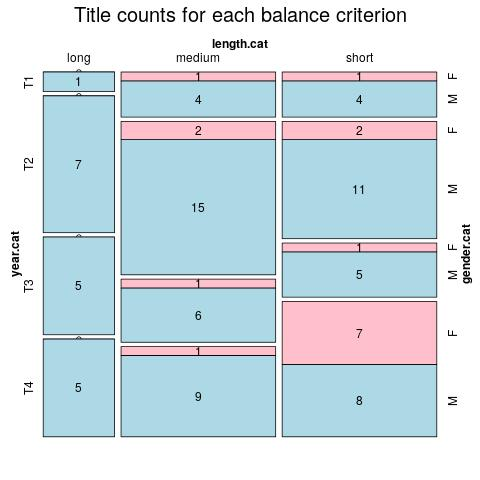
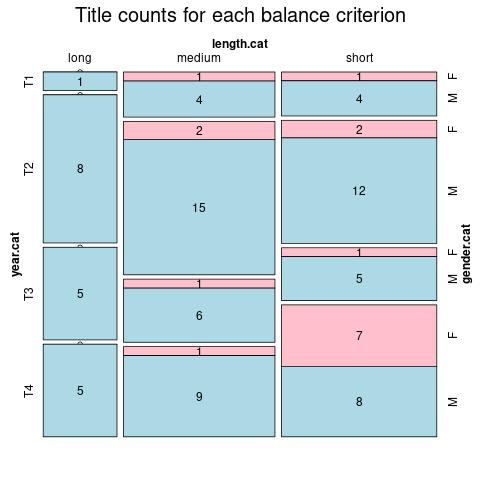
update portuguese texts

diff --git a/ELTeC/por/index.html b/ELTeC/por/index.html
@@ -5,11 +5,10 @@
       <title>Contents of ELTeC-por</title>
    </head>
    <body>
-      <h4>On 2020-06-30 ELTeC-por contains 96 texts containing 6313980 words</h4>
+      <h4>On 2020-07-10 ELTeC-por contains 98 texts containing 6443175 words</h4>
       <p class="graphic"><img src="mosaic.png"><input type="button" value="Explainer" onclick="window.open('../explainer.html','popUpWindow',         'height=600,width=500,left=100,top=100,resizable=yes,         scrollbars=yes,toolbar=no,menubar=no,location=no,directories=no, status=yes');"></p>
       <p class="explain">Click on a column heading to sort. Click on a text identifier to
-         read the text (may not work in older browsers).
-      </p>
+         read the text (may not work in older browsers).</p>
       <table class="catalogue" id="theTable">
          <tr class="label">
             <th onclick="sortTable(0)">Identifier</th>
@@ -684,6 +683,18 @@
             <td>low</td>
          </tr>
          <tr>
+            <td><a href="POR0057.html">POR0057</a><a href="https://raw.githubusercontent.com/COST-ELTeC/ELTeC-por/master/level1/POR0057_APLopMen_Doido.xml"><img src="../../media/teiLogo.jpg"></a></td>
+            <td>eltec-1</td>
+            <td></td>
+            <td>33148</td>
+            <td>(short) </td>
+            <td>1849 (T2) </td>
+            <td>Memórias de um doido</td>
+            <td>Mendonça, António Pedro Lopes de (1857-1911)</td>
+            <td>M</td>
+            <td>high</td>
+         </tr>
+         <tr>
             <td><a href="POR0058.html">POR0058</a><a href="https://raw.githubusercontent.com/COST-ELTeC/ELTeC-por/master/level1/POR0058_AlbPim_Mercedes.xml"><img src="../../media/teiLogo.jpg"></a></td>
             <td>eltec-1</td>
             <td></td>
@@ -1064,6 +1075,18 @@
             <td>1892 (T3) </td>
             <td>Lisboa no Ano Três Mil</td>
             <td>Figueiredo, Cândido de (1846-1925)</td>
+            <td>M</td>
+            <td>unspecified</td>
+         </tr>
+         <tr>
+            <td><a href="POR0091.html">POR0091</a><a href="https://raw.githubusercontent.com/COST-ELTeC/ELTeC-por/master/level1/POR0091_ArnGam_Dinheiro.xml"><img src="../../media/teiLogo.jpg"></a></td>
+            <td>eltec-1</td>
+            <td></td>
+            <td>96047</td>
+            <td>(long)  !!</td>
+            <td>1876 (T2) </td>
+            <td>El-rei dinheiro</td>
+            <td>Gama, Arnaldo (1828-1869)</td>
             <td>M</td>
             <td>unspecified</td>
          </tr>

diff --git a/ELTeC/por/POR0018.html b/ELTeC/por/POR0018.html
@@ -1,17 +1,29 @@
 <!DOCTYPE html>
- <html><head>
- <meta http-equiv="Content-Type" content="text/html; charset=UTF-8"/>     
-  <link rel="stylesheet" href="../../css/cetei.css" media="all" title="no title" />
-  <link type="application/tei+xml" rel="alternate" href="https://raw.githubusercontent.com/COST-ELTeC/ELTeC-por/master/level1/POR0018_AlmNeg_Engomadeira.xml"/>
-<script src="../../js/CETEI.js" ></script>
- <script type="text/javascript">
-    var ceteicean = new CETEI();
-    ceteicean.shadowCSS = "../../css/cetei.css";
-    ceteicean.getHTML5("https://raw.githubusercontent.com/COST-ELTeC/ELTeC-por/master/level1/POR0018_AlmNeg_Engomadeira.xml",function(data) {
+<html><head>
+  <meta charset="UTF-8">
+  <meta name="viewport" content="width=device-width, initial-scale=1.0"/>
+  <meta http-equiv="X-UA-Compatible" content="ie=edge"/>
+  <link rel="stylesheet" href="../../css/cetei.css" media="all" />
+  <script src="../../js/CETEI.js"></script>
+  <script>
+   let c = new CETEI(); 
+   let behaviors = {
+    "namespaces": {
+     "el": "http://distantreading.net/eltec/ns"
+    },
+    "tei": {
+     "teiHeader": null,
+     "distributor":[[ "[ref]",[ "<a href='$rw@ref' target='_blank'>", "</a>"]]],
+     "author":[[ "[ref]",[ "<a href='$rw@ref' target='_blank'>", "</a>"]]],
+     "pb":[ "<p class='break'>[page $@n]</p>"],
+     "ref": ["<a href='$rw@target'> online "," </a>"],
+    },
+  };
+  c.addBehaviors(behaviors);
+  c.getHTML5("https://raw.githubusercontent.com/COST-ELTeC/ELTeC-por/master/level1/POR0018_AlmNeg_Engomadeira.xml",function(data) {
   document.getElementsByTagName("body")[0].appendChild(data);});
   </script>
-   <title>ELTeC link file</title>
-    </head>
+     </head>
     <body>
         <a href="https://www.distant-reading.net/">
             <img src="../../media/distantreading.png" alt="logo"/>

diff --git a/ELTeC/por/POR0084.html b/ELTeC/por/POR0084.html
@@ -1,17 +1,29 @@
 <!DOCTYPE html>
- <html><head>
- <meta http-equiv="Content-Type" content="text/html; charset=UTF-8"/>     
-  <link rel="stylesheet" href="../../css/cetei.css" media="all" title="no title" />
-  <link type="application/tei+xml" rel="alternate" href="https://raw.githubusercontent.com/COST-ELTeC/ELTeC-por/master/level1/POR0084_RocMar_GomesFreire.xml"/>
-<script src="../../js/CETEI.js" ></script>
- <script type="text/javascript">
-    var ceteicean = new CETEI();
-    ceteicean.shadowCSS = "../../css/cetei.css";
-    ceteicean.getHTML5("https://raw.githubusercontent.com/COST-ELTeC/ELTeC-por/master/level1/POR0084_RocMar_GomesFreire.xml",function(data) {
+<html><head>
+  <meta charset="UTF-8">
+  <meta name="viewport" content="width=device-width, initial-scale=1.0"/>
+  <meta http-equiv="X-UA-Compatible" content="ie=edge"/>
+  <link rel="stylesheet" href="../../css/cetei.css" media="all" />
+  <script src="../../js/CETEI.js"></script>
+  <script>
+   let c = new CETEI(); 
+   let behaviors = {
+    "namespaces": {
+     "el": "http://distantreading.net/eltec/ns"
+    },
+    "tei": {
+     "teiHeader": null,
+     "distributor":[[ "[ref]",[ "<a href='$rw@ref' target='_blank'>", "</a>"]]],
+     "author":[[ "[ref]",[ "<a href='$rw@ref' target='_blank'>", "</a>"]]],
+     "pb":[ "<p class='break'>[page $@n]</p>"],
+     "ref": ["<a href='$rw@target'> online "," </a>"],
+    },
+  };
+  c.addBehaviors(behaviors);
+  c.getHTML5("https://raw.githubusercontent.com/COST-ELTeC/ELTeC-por/master/level1/POR0084_RocMar_GomesFreire.xml",function(data) {
   document.getElementsByTagName("body")[0].appendChild(data);});
   </script>
-   <title>ELTeC link file</title>
-    </head>
+     </head>
     <body>
         <a href="https://www.distant-reading.net/">
             <img src="../../media/distantreading.png" alt="logo"/>

diff --git a/ELTeC/por/POR0050.html b/ELTeC/por/POR0050.html
@@ -1,17 +1,29 @@
 <!DOCTYPE html>
- <html><head>
- <meta http-equiv="Content-Type" content="text/html; charset=UTF-8"/>     
-  <link rel="stylesheet" href="../../css/cetei.css" media="all" title="no title" />
-  <link type="application/tei+xml" rel="alternate" href="https://raw.githubusercontent.com/COST-ELTeC/ELTeC-por/master/level1/POR0050_CarPAlm_Lisboa.xml"/>
-<script src="../../js/CETEI.js" ></script>
- <script type="text/javascript">
-    var ceteicean = new CETEI();
-    ceteicean.shadowCSS = "../../css/cetei.css";
-    ceteicean.getHTML5("https://raw.githubusercontent.com/COST-ELTeC/ELTeC-por/master/level1/POR0050_CarPAlm_Lisboa.xml",function(data) {
+<html><head>
+  <meta charset="UTF-8">
+  <meta name="viewport" content="width=device-width, initial-scale=1.0"/>
+  <meta http-equiv="X-UA-Compatible" content="ie=edge"/>
+  <link rel="stylesheet" href="../../css/cetei.css" media="all" />
+  <script src="../../js/CETEI.js"></script>
+  <script>
+   let c = new CETEI(); 
+   let behaviors = {
+    "namespaces": {
+     "el": "http://distantreading.net/eltec/ns"
+    },
+    "tei": {
+     "teiHeader": null,
+     "distributor":[[ "[ref]",[ "<a href='$rw@ref' target='_blank'>", "</a>"]]],
+     "author":[[ "[ref]",[ "<a href='$rw@ref' target='_blank'>", "</a>"]]],
+     "pb":[ "<p class='break'>[page $@n]</p>"],
+     "ref": ["<a href='$rw@target'> online "," </a>"],
+    },
+  };
+  c.addBehaviors(behaviors);
+  c.getHTML5("https://raw.githubusercontent.com/COST-ELTeC/ELTeC-por/master/level1/POR0050_CarPAlm_Lisboa.xml",function(data) {
   document.getElementsByTagName("body")[0].appendChild(data);});
   </script>
-   <title>ELTeC link file</title>
-    </head>
+     </head>
     <body>
         <a href="https://www.distant-reading.net/">
             <img src="../../media/distantreading.png" alt="logo"/>

diff --git a/ELTeC/por/POR0091.html b/ELTeC/por/POR0091.html
@@ -1,17 +1,29 @@
 <!DOCTYPE html>
- <html><head>
- <meta http-equiv="Content-Type" content="text/html; charset=UTF-8"/>     
-  <link rel="stylesheet" href="../../css/cetei.css" media="all" title="no title" />
-  <link type="application/tei+xml" rel="alternate" href="https://raw.githubusercontent.com/COST-ELTeC/ELTeC-por/master/level1/POR0091_FAMFM_Vencido.xml"/>
-<script src="../../js/CETEI.js" ></script>
- <script type="text/javascript">
-    var ceteicean = new CETEI();
-    ceteicean.shadowCSS = "../../css/cetei.css";
-    ceteicean.getHTML5("https://raw.githubusercontent.com/COST-ELTeC/ELTeC-por/master/level1/POR0091_FAMFM_Vencido.xml",function(data) {
+<html><head>
+  <meta charset="UTF-8">
+  <meta name="viewport" content="width=device-width, initial-scale=1.0"/>
+  <meta http-equiv="X-UA-Compatible" content="ie=edge"/>
+  <link rel="stylesheet" href="../../css/cetei.css" media="all" />
+  <script src="../../js/CETEI.js"></script>
+  <script>
+   let c = new CETEI(); 
+   let behaviors = {
+    "namespaces": {
+     "el": "http://distantreading.net/eltec/ns"
+    },
+    "tei": {
+     "teiHeader": null,
+     "distributor":[[ "[ref]",[ "<a href='$rw@ref' target='_blank'>", "</a>"]]],
+     "author":[[ "[ref]",[ "<a href='$rw@ref' target='_blank'>", "</a>"]]],
+     "pb":[ "<p class='break'>[page $@n]</p>"],
+     "ref": ["<a href='$rw@target'> online "," </a>"],
+    },
+  };
+  c.addBehaviors(behaviors);
+  c.getHTML5("https://raw.githubusercontent.com/COST-ELTeC/ELTeC-por/master/level1/POR0091_ArnGam_Dinheiro.xml",function(data) {
   document.getElementsByTagName("body")[0].appendChild(data);});
   </script>
-   <title>ELTeC link file</title>
-    </head>
+     </head>
     <body>
         <a href="https://www.distant-reading.net/">
             <img src="../../media/distantreading.png" alt="logo"/>

diff --git a/ELTeC/por/POR0057.html b/ELTeC/por/POR0057.html
@@ -1,17 +1,29 @@
 <!DOCTYPE html>
- <html><head>
- <meta http-equiv="Content-Type" content="text/html; charset=UTF-8"/>     
-  <link rel="stylesheet" href="../../css/cetei.css" media="all" title="no title" />
-  <link type="application/tei+xml" rel="alternate" href="https://raw.githubusercontent.com/COST-ELTeC/ELTeC-por/master/level1/POR0057_FiaAlm_Ruiva.xml"/>
-<script src="../../js/CETEI.js" ></script>
- <script type="text/javascript">
-    var ceteicean = new CETEI();
-    ceteicean.shadowCSS = "../../css/cetei.css";
-    ceteicean.getHTML5("https://raw.githubusercontent.com/COST-ELTeC/ELTeC-por/master/level1/POR0057_FiaAlm_Ruiva.xml",function(data) {
+<html><head>
+  <meta charset="UTF-8">
+  <meta name="viewport" content="width=device-width, initial-scale=1.0"/>
+  <meta http-equiv="X-UA-Compatible" content="ie=edge"/>
+  <link rel="stylesheet" href="../../css/cetei.css" media="all" />
+  <script src="../../js/CETEI.js"></script>
+  <script>
+   let c = new CETEI(); 
+   let behaviors = {
+    "namespaces": {
+     "el": "http://distantreading.net/eltec/ns"
+    },
+    "tei": {
+     "teiHeader": null,
+     "distributor":[[ "[ref]",[ "<a href='$rw@ref' target='_blank'>", "</a>"]]],
+     "author":[[ "[ref]",[ "<a href='$rw@ref' target='_blank'>", "</a>"]]],
+     "pb":[ "<p class='break'>[page $@n]</p>"],
+     "ref": ["<a href='$rw@target'> online "," </a>"],
+    },
+  };
+  c.addBehaviors(behaviors);
+  c.getHTML5("https://raw.githubusercontent.com/COST-ELTeC/ELTeC-por/master/level1/POR0057_APLopMen_Doido.xml",function(data) {
   document.getElementsByTagName("body")[0].appendChild(data);});
   </script>
-   <title>ELTeC link file</title>
-    </head>
+     </head>
     <body>
         <a href="https://www.distant-reading.net/">
             <img src="../../media/distantreading.png" alt="logo"/>
